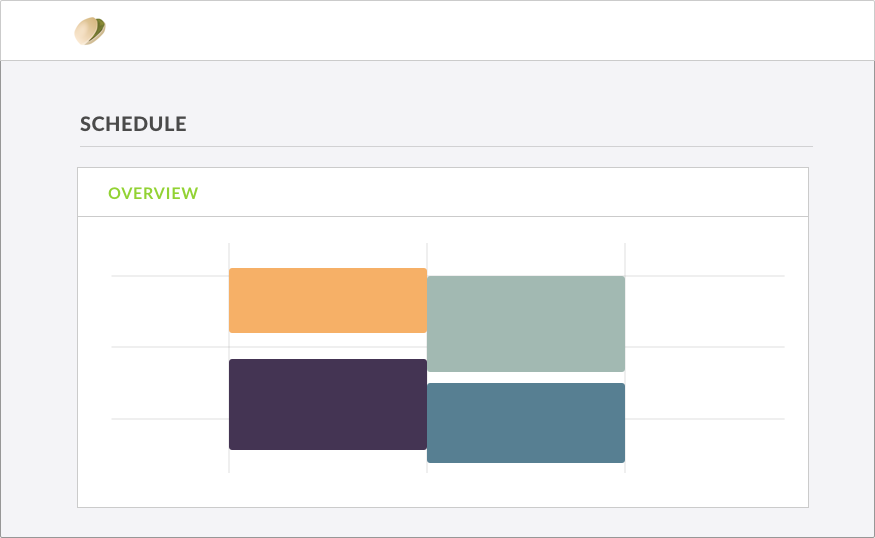
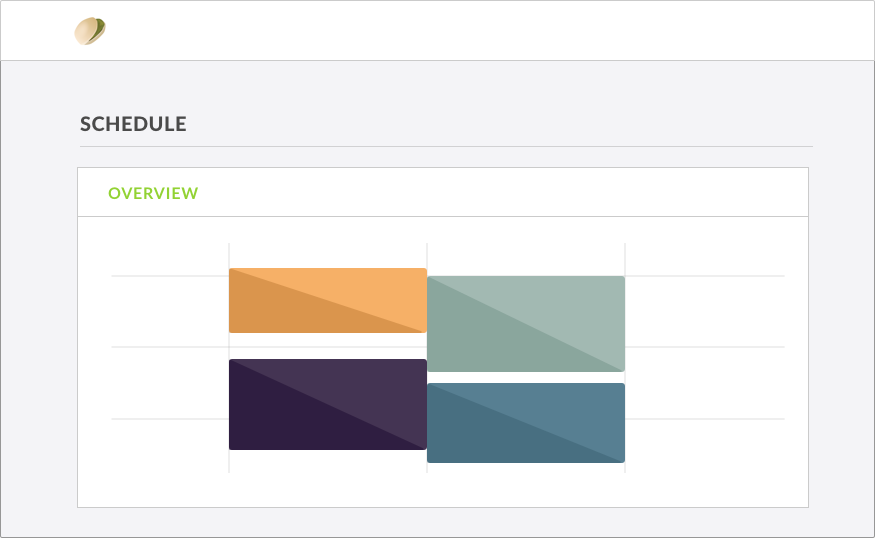
update graphics
try to put in favicon?

Changed region(s): [[0.2469, 0.5056, 0.4937, 0.6245]]

diff --git a/pistachio/api/templates/api/index.html b/pistachio/api/templates/api/index.html
@@ -4,6 +4,9 @@
 <head>
     <link href="{% static "api/css/style.css" %}" rel="stylesheet" type="text/css"/>
     <link href="{% static "api/css/styling.css" %}" rel="stylesheet" type="text/css"/>
+
+    <link rel="icon" href="{% static "api/assets/favicon.ico"%}" type="image/x-icon" />
+
 </head>
 <div class="header-container">
     
